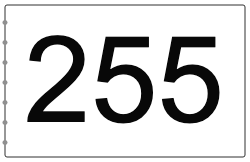
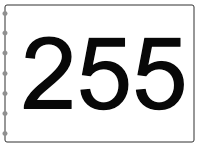
-empty-

Changed region(s): [[0.3618, 0.2177, 0.9347, 0.7891], [0.0, 0.0, 0.995, 0.9796], [0.0905, 0.1905, 0.3618, 0.7619]]

diff --git a/shapes/data/global/digital/display/8-Bit-Display.js b/shapes/data/global/digital/display/8-Bit-Display.js
@@ -13,57 +13,57 @@ var digital_display_8_Bit_Display = CircuitFigure.extend({
    {
      var _this = this;
 
-     this._super( $.extend({stroke:0, bgColor:null, width:240,height:152},attr), setter, getter);
+     this._super( $.extend({stroke:0, bgColor:null, width:189,height:137},attr), setter, getter);
      var port;
-     // port_a
-     port = this.addPort(new DecoratedInputPort(), new draw2d.layout.locator.XYRelPortLocator({x: 0, y: 11.513157894736842 }));
+     // input_bit1
+     port = this.addPort(new DecoratedInputPort(), new draw2d.layout.locator.XYRelPortLocator({x: 0, y: 6.204379562043796 }));
      port.setConnectionDirection(3);
      port.setBackgroundColor("#37B1DE");
-     port.setName("port_a");
-     port.setMaxFanOut(20);
-     // port_b
-     port = this.addPort(new DecoratedInputPort(), new draw2d.layout.locator.XYRelPortLocator({x: 0, y: 24.67105263157895 }));
+     port.setName("input_bit1");
+     port.setMaxFanOut(1);
+     // input_bit2
+     port = this.addPort(new DecoratedInputPort(), new draw2d.layout.locator.XYRelPortLocator({x: 0, y: 20.43795620437956 }));
      port.setConnectionDirection(3);
      port.setBackgroundColor("#37B1DE");
-     port.setName("port_b");
-     port.setMaxFanOut(20);
-     // port_c
-     port = this.addPort(new DecoratedInputPort(), new draw2d.layout.locator.XYRelPortLocator({x: 0, y: 37.828947368421055 }));
+     port.setName("input_bit2");
+     port.setMaxFanOut(1);
+     // input_bit3
+     port = this.addPort(new DecoratedInputPort(), new draw2d.layout.locator.XYRelPortLocator({x: 0, y: 35.03649635036496 }));
      port.setConnectionDirection(3);
      port.setBackgroundColor("#37B1DE");
-     port.setName("port_c");
-     port.setMaxFanOut(20);
-     // port_d
-     port = this.addPort(new DecoratedInputPort(), new draw2d.layout.locator.XYRelPortLocator({x: 0, y: 50.986842105263165 }));
+     port.setName("input_bit3");
+     port.setMaxFanOut(1);
+     // input_bit4
+     port = this.addPort(new DecoratedInputPort(), new draw2d.layout.locator.XYRelPortLocator({x: 0, y: 50 }));
      port.setConnectionDirection(3);
      port.setBackgroundColor("#37B1DE");
-     port.setName("port_d");
-     port.setMaxFanOut(20);
-     // port_e
-     port = this.addPort(new DecoratedInputPort(), new draw2d.layout.locator.XYRelPortLocator({x: 0, y: 64.14473684210527 }));
+     port.setName("input_bit4");
+     port.setMaxFanOut(1);
+     // input_bit5
+     port = this.addPort(new DecoratedInputPort(), new draw2d.layout.locator.XYRelPortLocator({x: 0, y: 64.5985401459854 }));
      port.setConnectionDirection(3);
      port.setBackgroundColor("#37B1DE");
-     port.setName("port_e");
-     port.setMaxFanOut(20);
-     // port_f
-     port = this.addPort(new DecoratedInputPort(), new draw2d.layout.locator.XYRelPortLocator({x: 0, y: 77.30263157894737 }));
+     port.setName("input_bit5");
+     port.setMaxFanOut(1);
+     // input_bit6
+     port = this.addPort(new DecoratedInputPort(), new draw2d.layout.locator.XYRelPortLocator({x: 0, y: 79.1970802919708 }));
      port.setConnectionDirection(3);
      port.setBackgroundColor("#37B1DE");
-     port.setName("port_f");
-     port.setMaxFanOut(20);
-     // port_g
-     port = this.addPort(new DecoratedInputPort(), new draw2d.layout.locator.XYRelPortLocator({x: 0, y: 90.46052631578948 }));
+     port.setName("input_bit6");
+     port.setMaxFanOut(1);
+     // input_bit7
+     port = this.addPort(new DecoratedInputPort(), new draw2d.layout.locator.XYRelPortLocator({x: 0, y: 93.7956204379562 }));
      port.setConnectionDirection(3);
      port.setBackgroundColor("#37B1DE");
-     port.setName("port_g");
-     port.setMaxFanOut(20);
+     port.setName("input_bit7");
+     port.setMaxFanOut(1);
    },
 
    createShapeElement : function()
    {
       var shape = this._super();
-      this.originalWidth = 240;
-      this.originalHeight= 152;
+      this.originalWidth = 189;
+      this.originalHeight= 137;
       return shape;
    },
 
@@ -72,18 +72,18 @@ var digital_display_8_Bit_Display = CircuitFigure.extend({
        this.canvas.paper.setStart();
        var shape = null;
        // BoundingBox
-       shape = this.canvas.paper.path("M0,0 L240,0 L240,152 L0,152");
+       shape = this.canvas.paper.path("M0,0 L189,0 L189,137 L0,137");
        shape.attr({"stroke":"none","stroke-width":0,"fill":"none"});
        shape.data("name","BoundingBox");
        
        // circle
-       shape = this.canvas.paper.path('M0,2Q0,0 2, 0L238,0Q240,0 240, 2L240,150Q240,152 238, 152L2,152Q0,152 0, 150L0,2');
+       shape = this.canvas.paper.path('M0,2Q0,0 2, 0L187,0Q189,0 189, 2L189,135Q189,137 187, 137L2,137Q0,137 0, 135L0,2');
        shape.attr({"stroke":"rgba(48,48,48,1)","stroke-width":1,"fill":"rgba(255,255,255,1)","dasharray":null,"stroke-dasharray":null,"opacity":1});
        shape.data("name","circle");
        
        // digit
        shape = this.canvas.paper.text(0,0,'255');
-       shape.attr({"x":18.890625,"y":75,"text-anchor":"start","text":"255","font-family":"\"Arial\"","font-size":120,"stroke":"#000000","fill":"#080808","stroke-scale":true,"font-weight":"normal","stroke-width":0,"opacity":1});
+       shape.attr({"x":15.890625,"y":68.75,"text-anchor":"start","text":"255","font-family":"\"Arial\"","font-size":100,"stroke":"#000000","fill":"#080808","stroke-scale":true,"font-weight":"normal","stroke-width":0,"opacity":1});
        shape.data("name","digit");
        
 
@@ -108,13 +108,11 @@ digital_display_8_Bit_Display = digital_display_8_Bit_Display.extend({
     
     calculate:function(context)
     {
-        var _this = this;
-        this.portLockup.forEach(function(element, index){
-            _this.layerAttr(element.s, { 
-                fill  : element.p.getBooleanValue()?"#C21B7A":null,
-                stroke: element.p.getBooleanValue()?"#000000":"#f4f4f9"
-            });
-        });
+        let val = this.getInputPort("input_a1").getBooleanValue()?1:0;
+        val    += this.getInputPort("input_a2").getBooleanValue()?2:0;
+        val    += this.getInputPort("input_a3").getBooleanValue()?4:0;
+        val    += this.getInputPort("input_a4").getBooleanValue()?8:0;
+
     }
 
 });
